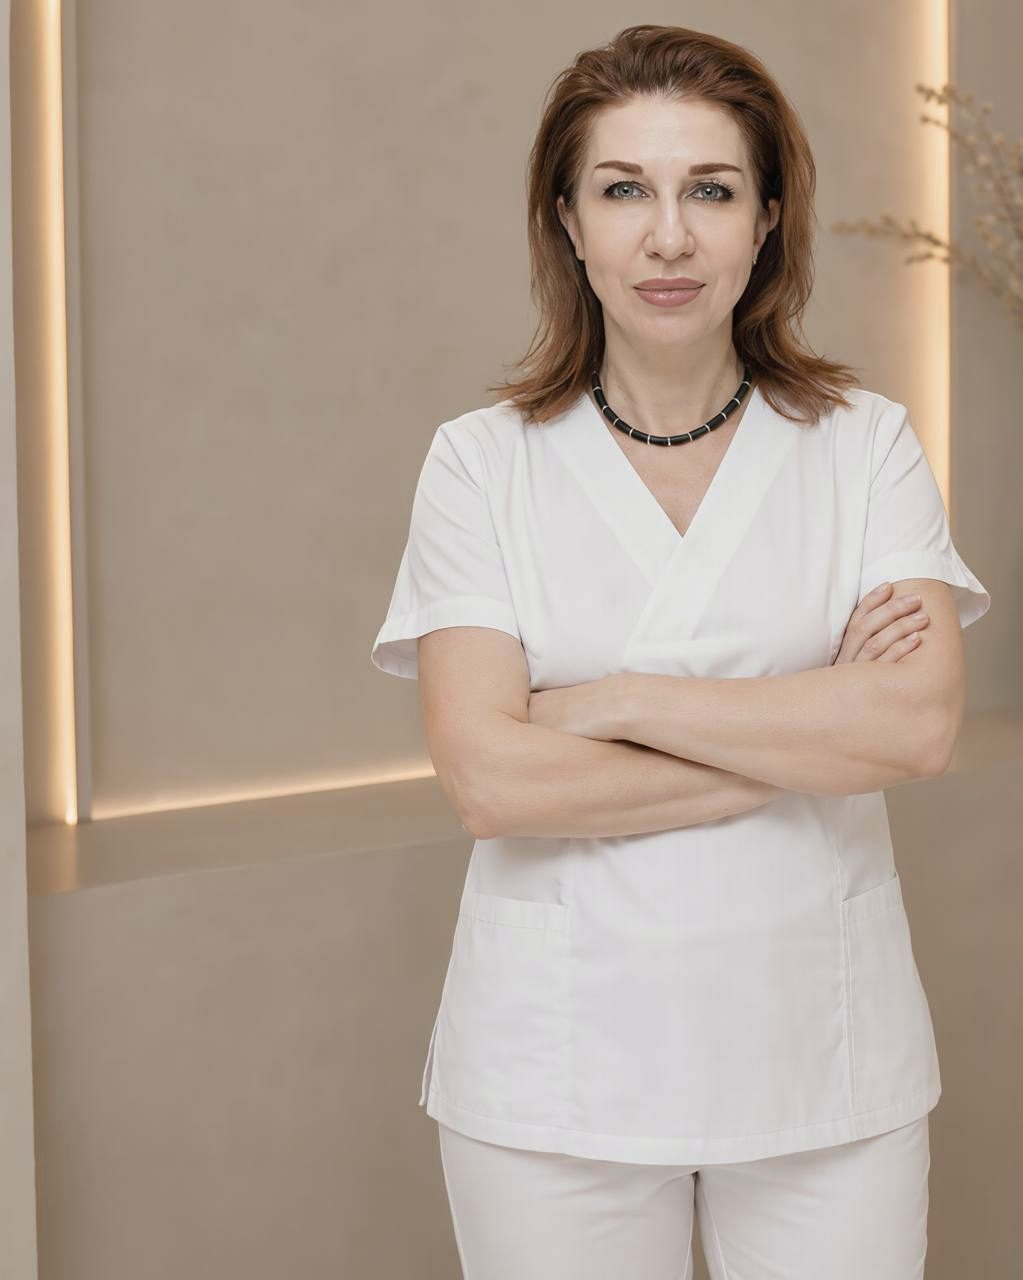
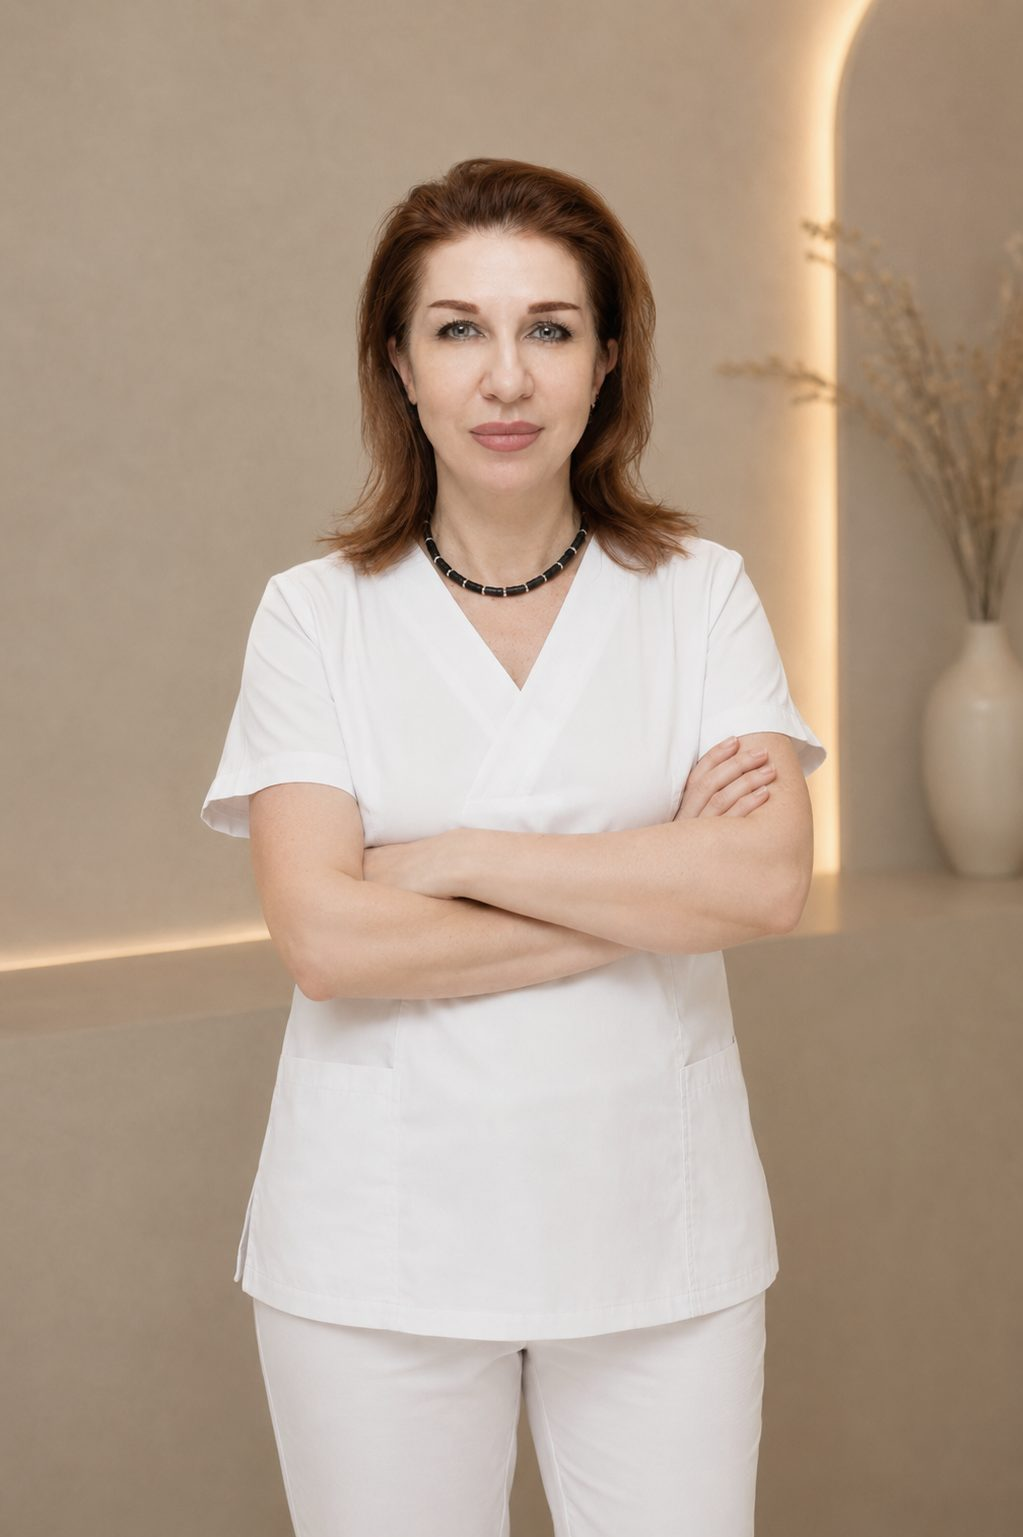
feat: новые фото мастеров, второй телефон, честные цифры отзывов

diff --git a/index.html b/index.html
@@ -35,6 +35,10 @@
       "addressCountry": "RU"
     },
     "telephone": "+7 993 266-63-66",
+    "contactPoint": [
+      { "@type": "ContactPoint", "telephone": "+7 993 266-63-66", "contactType": "customer service" },
+      { "@type": "ContactPoint", "telephone": "+7 925 326-61-96", "contactType": "customer service" }
+    ],
     "openingHours": "Mo-Su 10:00-22:00",
     "priceRange": "500-11000 ₽",
     "aggregateRating": { "@type": "AggregateRating", "ratingValue": "5.0", "reviewCount": "37" },
@@ -77,7 +81,10 @@
         <a href="#reviews">Отзывы</a>
         <a href="#faq">Вопросы</a>
       </nav>
-      <a class="head__phone" href="tel:+79932666366">+7 993 266-63-66</a>
+      <div class="head__phones">
+        <a href="tel:+79932666366">+7 993 266-63-66</a>
+        <a href="tel:+79253266196">+7 925 326-61-96</a>
+      </div>
       <a class="pill pill--sm" href="#booking">Записаться</a>
       <label class="burger" for="nav-toggle" aria-hidden="true"><span></span></label>
     </div>
@@ -112,8 +119,8 @@
             <a class="pill pill--ghost" href="#plans">Смотреть цены</a>
           </div>
           <dl class="stats">
-            <div><dt>5.0</dt><dd>на Яндекс.Картах</dd></div>
-            <div><dt>100+</dt><dd>отзывов клиентов</dd></div>
+            <div><dt>5.0</dt><dd>рейтинг на Яндекс.Картах</dd></div>
+            <div><dt>37</dt><dd>отзывов клиентов</dd></div>
             <div><dt>−20%</dt><dd>до 30.11.2026</dd></div>
             <div><dt>0 ₽</dt><dd>консультация-тест</dd></div>
           </dl>
@@ -499,6 +506,10 @@
             Одинцово, БЦ «Телеграф», Можайское шоссе, 20 — 5 минут от МЦК «Одинцово».<br>
             Ежедневно с 10:00 до 22:00. Запись — только после подтверждения.
           </p>
+          <div class="booking__phones">
+            <a href="tel:+79932666366">+7 993 266-63-66</a>
+            <a href="tel:+79253266196">+7 925 326-61-96</a>
+          </div>
           <div class="booking__acts">
             <a class="pill" href="https://wa.me/message/I47FFEBZUZ3HM1" rel="noopener">Написать в WhatsApp</a>
             <a class="pill pill--ghost" href="tel:+79932666366">Позвонить</a>
@@ -552,6 +563,7 @@
       <div>
         <p class="footer__title">Контакты</p>
         <p><a href="tel:+79932666366">+7 993 266-63-66</a></p>
+        <p><a href="tel:+79253266196">+7 925 326-61-96</a></p>
         <p><a href="https://t.me/iplstudioo" rel="noopener">Telegram</a> ·
            <a href="https://wa.me/message/I47FFEBZUZ3HM1" rel="noopener">WhatsApp</a> ·
            <a href="https://vk.ru/iplstudio" rel="noopener">ВКонтакте</a></p>

diff --git a/style.css b/style.css
@@ -120,7 +120,10 @@ s { text-decoration-thickness: 1px; }
 .nav { display: flex; gap: 26px; margin-left: auto; font-size: 14.5px; color: var(--ink-2); }
 .nav a { transition: color .18s ease; }
 .nav a:hover { color: var(--gold); }
-.head__phone { font: 600 15px/1 var(--font-body); white-space: nowrap; }
+.head__phones { display: flex; flex-direction: column; gap: 3px; text-align: right; }
+.head__phones a { font: 600 15px/1.25 var(--font-body); white-space: nowrap; }
+.head__phones a + a { font-size: 13.5px; color: var(--muted); font-weight: 500; }
+.head__phones a:hover { color: var(--gold); }
 
 .nav-toggle { position: absolute; opacity: 0; width: 1px; height: 1px; pointer-events: none; }
 .burger {
@@ -318,7 +321,10 @@ s { text-decoration-thickness: 1px; }
 /* ---------- Запись ---------- */
 .booking__grid { display: grid; grid-template-columns: 1fr 1fr; gap: 56px; align-items: start; }
 .booking .section__title { margin-bottom: 16px; }
-.booking__lead { color: var(--ink-2); margin-bottom: 24px; }
+.booking__lead { color: var(--ink-2); margin-bottom: 18px; }
+.booking__phones { display: flex; flex-wrap: wrap; gap: 10px 26px; margin-bottom: 22px; }
+.booking__phones a { font-family: var(--font-display); font-size: 25px; color: var(--ink); }
+.booking__phones a:hover { color: var(--gold); }
 .booking__acts { display: flex; gap: 14px; flex-wrap: wrap; margin-bottom: 28px; }
 .booking__list { display: grid; grid-template-columns: 1fr 1fr; gap: 10px 20px; }
 .booking__list li { position: relative; padding-left: 24px; font-size: 14.5px; color: var(--ink-2); }
@@ -366,7 +372,7 @@ s { text-decoration-thickness: 1px; }
 @media (max-width: 1000px) {
   .hero__grid, .booking__grid, .indiba__grid { grid-template-columns: 1fr; gap: 44px; }
   .plans__grid, .reviews__grid, .team__grid { grid-template-columns: 1fr; }
-  .nav, .head__phone { display: none; }
+  .nav, .head__phones { display: none; }
   .zones__grid { grid-template-columns: repeat(2, 1fr); padding-right: 0; }
   .member { grid-template-columns: 1fr; }
   .member__pic img { min-height: 340px; max-height: 460px; }
